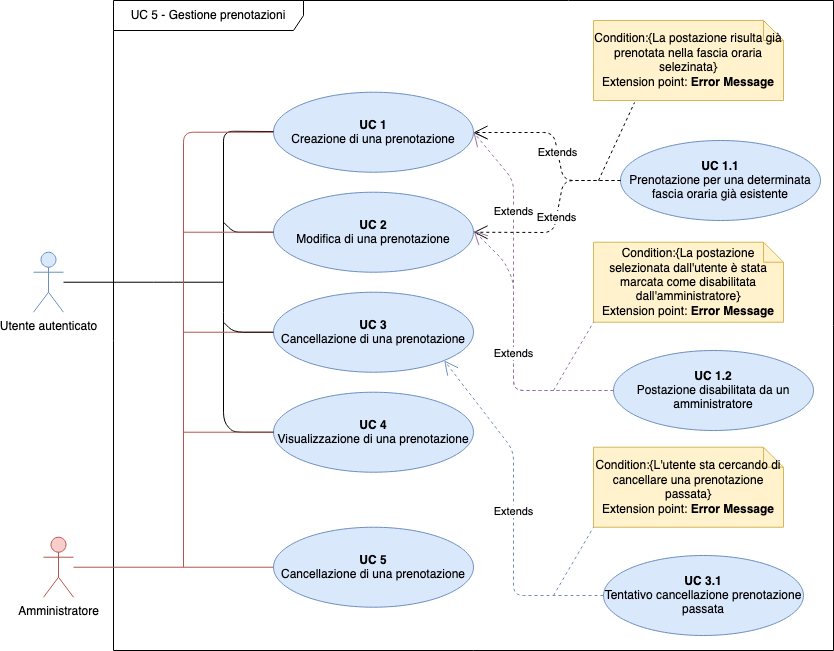
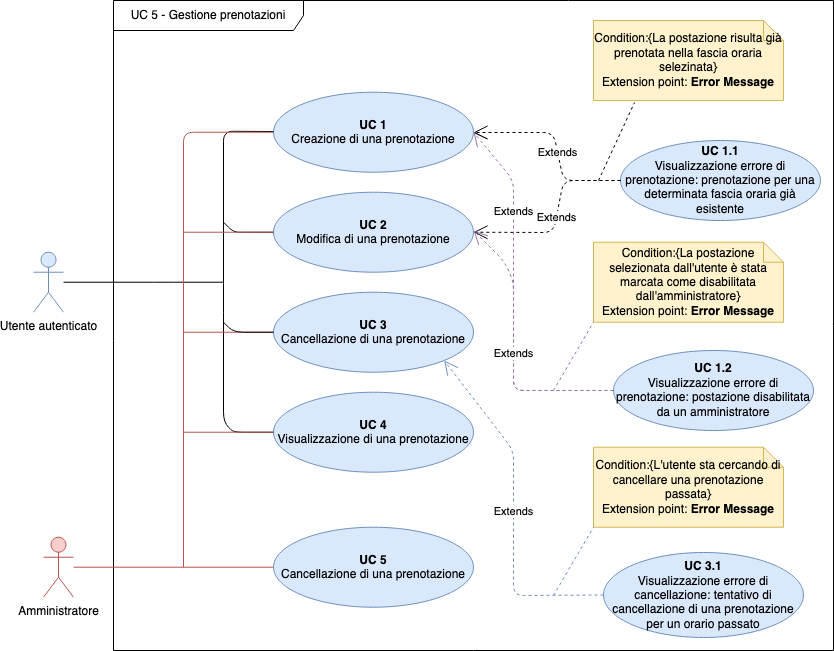
Fix minori UC
Fix nomi estensioni UC

Changed region(s): [[0.717, 0.8295, 0.9664, 0.9831], [0.7482, 0.2151, 0.9664, 0.3379], [0.7482, 0.553, 0.9664, 0.6452]]

diff --git a/DocumentiEsterni/AnalisiDeiRequisiti/src/CasiDUso/src/UC5.tex b/DocumentiEsterni/AnalisiDeiRequisiti/src/CasiDUso/src/UC5.tex
@@ -39,7 +39,7 @@ Il presente diagramma vuole riassumere la possibilità di gestione delle prenota
 	\end{itemize}
 \end{itemize}
 
-\subsubsection{UC 1.1 - Errore prenotazione: prenotazione per determinata fascia oraria già esistente}
+\subsubsection{UC 1.1 - Visualizzazione errore di prenotazione: prenotazione per determinata fascia oraria già esistente}
 \begin{itemize}
 \item \textbf{Attori primari:} utente autenticato, amministratore;
 \item \textbf{Precondizione:} l'utente sta cercando di prenotare una postazione in una data ed orario in cui la postazione risulta già prenotata da un altro utente;
@@ -47,7 +47,7 @@ Il presente diagramma vuole riassumere la possibilità di gestione delle prenota
 \item \textbf{Scenario principale:} l'utente visualizza un messaggio di errore in cui viene informato che la postazione risulta già occupata per la data e ora da lui scelti.
 \end{itemize}
 
-\subsubsection{UC 1.2 - Errore prenotazione: postazione disabilitata da un amministratore}
+\subsubsection{UC 1.2 - Visualizzazione errore di prenotazione: postazione disabilitata da un amministratore}
 \begin{itemize}
 \item \textbf{Attori primari:} utente autenticato, amministratore;
 \item \textbf{Precondizione:} l'utente sta cercando di prenotare una postazione che risulta essere stata disabilitata da un amministratore;
@@ -91,7 +91,7 @@ Il presente diagramma vuole riassumere la possibilità di gestione delle prenota
 	\end{itemize}
 \end{itemize}
 
-\subsubsection{UC 3.1 - Errore cancellazione: tentativo di cancellazione di una prenotazione per un orario passato}
+\subsubsection{UC 3.1 - Visualizzazione errore di cancellazione: tentativo di cancellazione di una prenotazione per un orario passato}
 \begin{itemize}
 \item \textbf{Attori primari:} utente autenticato, amministratore;
 \item \textbf{Precondizione:} l'utente sta cercando di cancellare una prenotazione già usufruita in un orario passato;
@@ -116,7 +116,7 @@ Il presente diagramma vuole riassumere la possibilità di gestione delle prenota
 	\end{itemize}
 \end{itemize}
 
-\subsubsection{UC 4.1 - Errore visualizzazione: l'utente non ha alcuna prenotazione attiva}
+\subsubsection{UC 4.1 - Visualizzazione errore di prenotazione attiva: l'utente non ha alcuna prenotazione attiva}
 \begin{itemize}
 \item \textbf{Attori primari:} utente autenticato, amministratore;
 \item \textbf{Precondizione:} l'utente sta cercando di visualizzare la lista delle sue prenotazioni, non avendone però alcuna attiva;

diff --git a/DocumentiEsterni/AnalisiDeiRequisiti/src/CasiDUso/src/UC40.tex b/DocumentiEsterni/AnalisiDeiRequisiti/src/CasiDUso/src/UC40.tex
@@ -68,7 +68,7 @@ Il presente diagramma vuole riassumere la possibilità di igienizzazione delle p
 		\end{itemize}
 \end{itemize}
 
-\subsubsection{UC 42.1 - Errore marcatura stanza: una postazione all'interno della stanza selezionata non è igienizzata}
+\subsubsection{UC 42.1 - Visualizzazione errore marcatura stanza: una postazione all'interno della stanza selezionata non è igienizzata}
 \begin{itemize}
 \item \textbf{Attori primari:} igienizzatore;
 \item \textbf{Precondizione:} l'utente sta cercando di marcare una stanza come completamente igienizata, ma una postazione nella stanza selezionata risulta essere non igienizzata;
